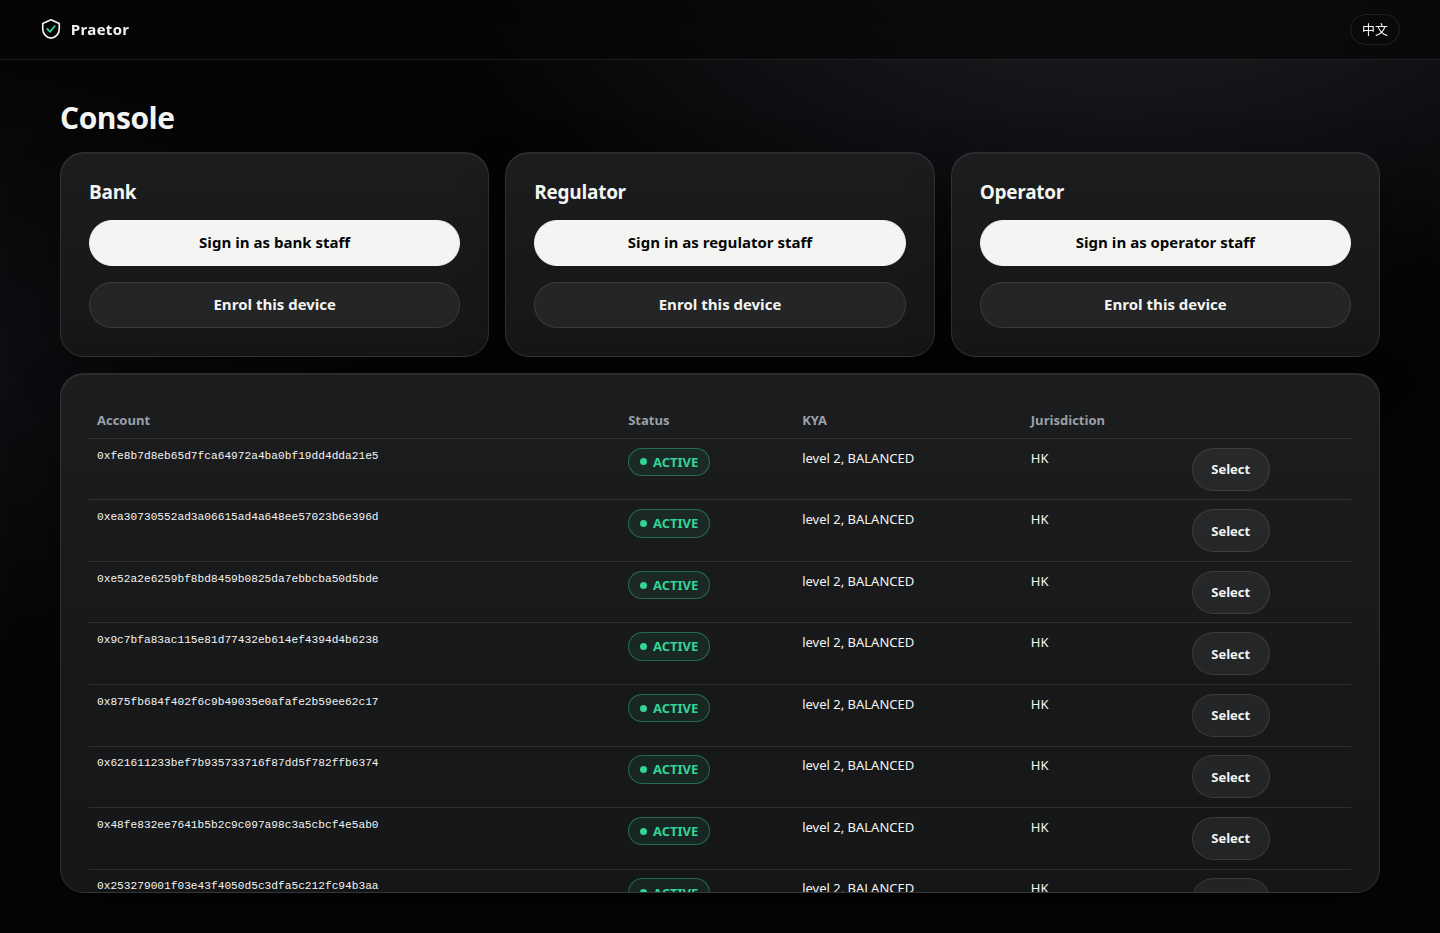
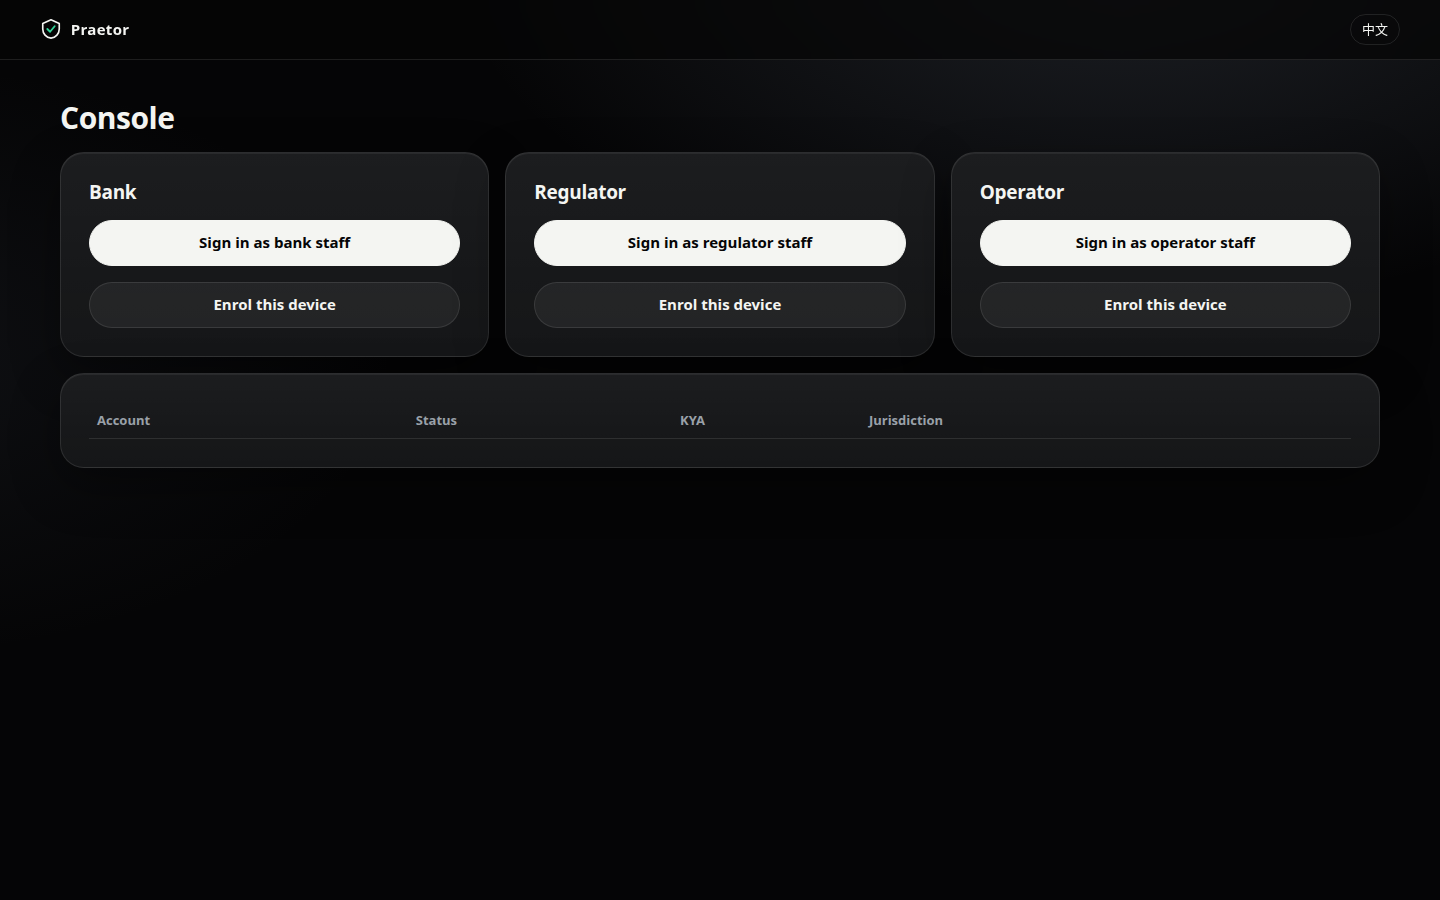
test(web): the rent may be paid by the scheduler before the click; the payment is checked on Base
Journey F1 to F10, the sandbox and the screenshots with axe: 15 of 15 green. Screenshots of every route at 1440 and 390 px.

diff --git a/apps/web/e2e/journey.spec.ts b/apps/web/e2e/journey.spec.ts
@@ -5,7 +5,7 @@
 import { test, expect, type BrowserContext, type Page } from '@playwright/test';
 import { erc20Abi, type Address, type Hex } from 'viem';
 import { MandateHookAbi } from '@praetor/chain';
-import { soterChallenge } from '@praetor/protocol';
+import { soterChallenge, standingOrdersEventsAbi } from '@praetor/protocol';
 import {
   activateSoterAttester, bootstrapConsortium, ensureDeskLiquidity, fund, labelAddress, lastAgentTurn, pub, scriptAgent, setDemoPrices, shockPrice, stack,
   waitFor, waitHeartbeat, type Stack,
@@ -170,7 +170,10 @@ test('F7 standing order: rent to a merchant (owner + bank), paid when due throug
   const row = page.locator('tbody tr', { hasText: 'Kowloon Lettings' }).first();
   await expect(row).toBeVisible({ timeout: 30_000 });
   await row.getByRole('button', { name: 'Pay now if due' }).click();
-  await expect(page.getByText('Paid.')).toBeVisible({ timeout: 180_000 });
+  // The scheduler triggers due orders every few seconds: it may pay before the click ("Not due yet."). Either way the
+  // payment is on Base.
+  await expect(page.getByText(/^(Paid\.|Not due yet\.)$/)).toBeVisible({ timeout: 180_000 });
+  await waitFor('the rent paid on Base', async () => (await pub(s).getLogs({ address: s.base.standingOrders, event: standingOrdersEventsAbi[2], args: { account }, fromBlock: BigInt(s.base.deployBlock) })).length > 0, 120_000);
   await shoot(page, 'payments');
 });
 
